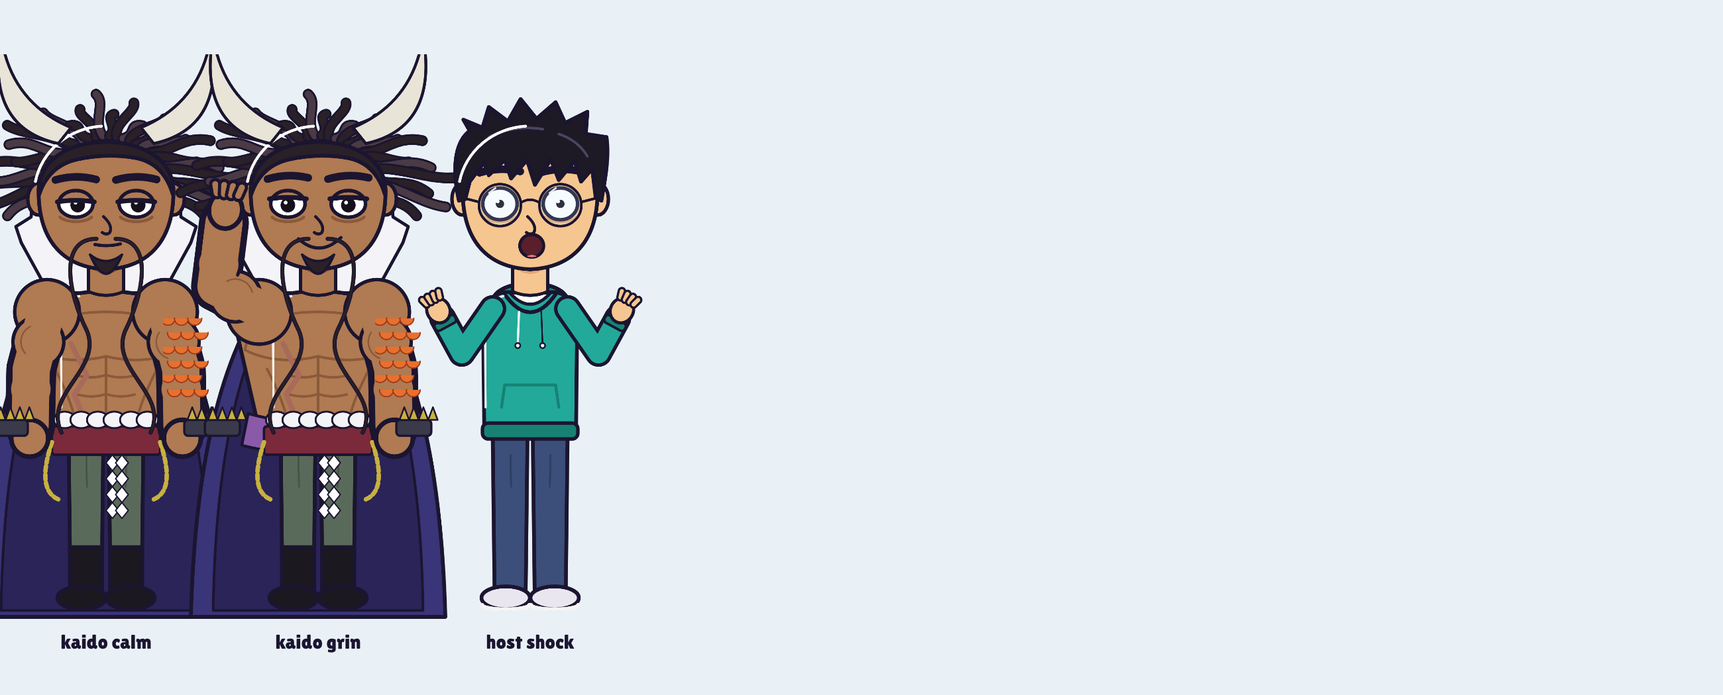
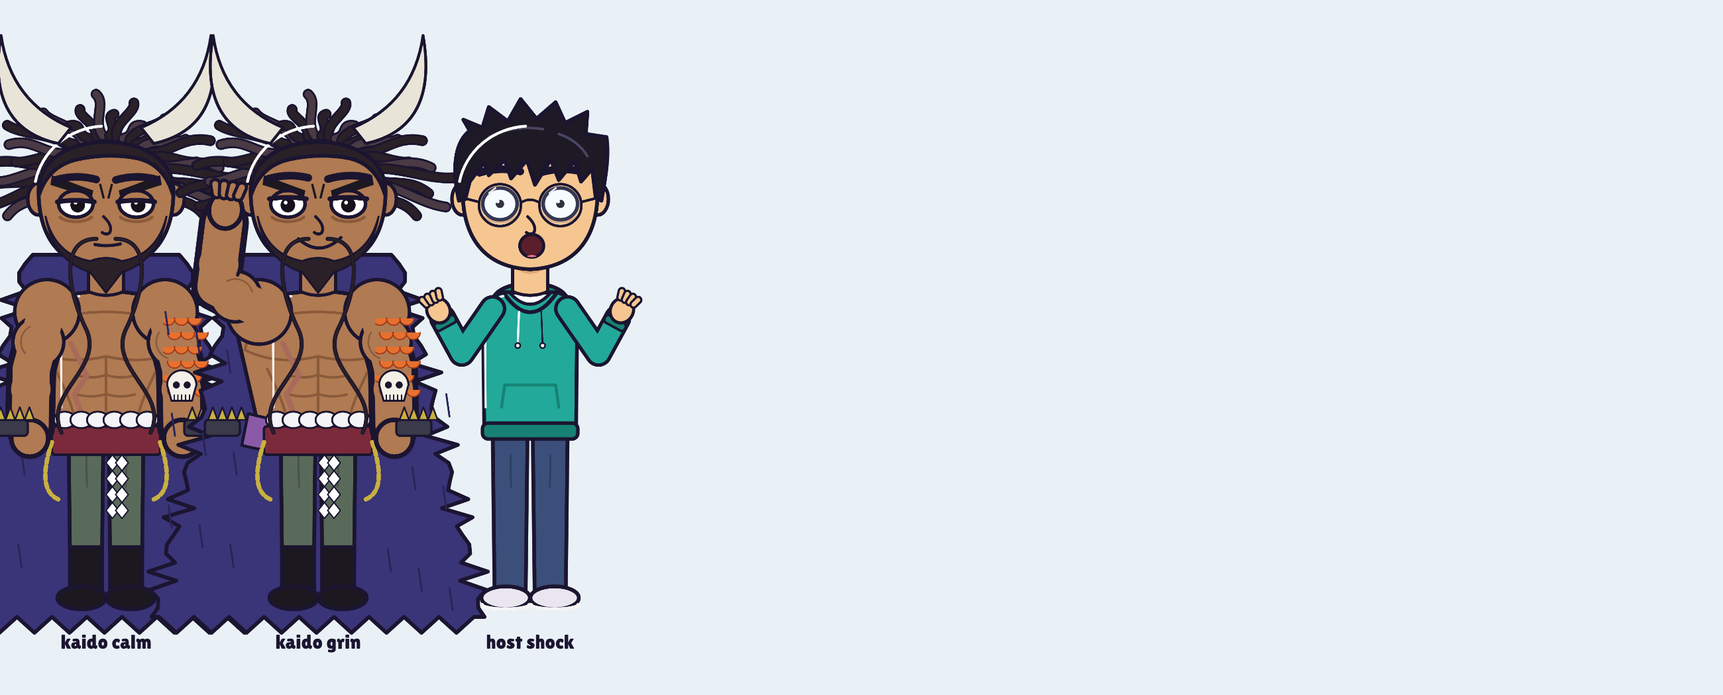
Fix clipped hair/horns/hands (roomier figure canvas), close shot gaps that flashed the desk, Gear 4 Snakeman Luffy, more accurate Kaido dragon
Claude-Session: https://claude.ai/code/session_01LedSfqc1zbW4UvWfiqXE3c

diff --git a/shorts/azure/story.js b/shorts/azure/story.js
@@ -42,23 +42,24 @@ const DB = '#3a8ac0', DBL = '#7cc4e4', DBD = '#1f5a8a', BELLY = '#c8b070', BELLY
 // one body segment run: thick tube along pts with scales on top, khaki ridged belly underneath and a black flame mane on the back
 export function scaledTube(x, pts, w, t, o = {}) {
   const n = pts.length, nrm = pts.map((p, i) => { const a = pts[Math.max(0, i - 1)], b = pts[Math.min(n - 1, i + 1)], dx = b[0] - a[0], dy = b[1] - a[1], l = Math.hypot(dx, dy) || 1; return [dy / l, -dx / l]; });
-  const up = (i, d) => [pts[i][0] + nrm[i][0] * d, pts[i][1] + nrm[i][1] * d];
-  // black flame mane along the back
-  if (o.mane !== false) for (let i = 1; i < n - 1; i += 2) { const [bx, by] = up(i, w * 0.42), [tx, ty] = up(i, w * (0.95 + 0.25 * Math.sin(i * 1.7 + t * 4))); const [ex, ey] = up(Math.min(n - 1, i + 2), w * 0.42);
-    x.beginPath(); x.moveTo(bx, by); x.quadraticCurveTo(tx - nrm[i][1] * w * 0.3, ty + nrm[i][0] * w * 0.3, tx, ty); x.quadraticCurveTo((tx + ex) / 2, (ty + ey) / 2 + 6, ex, ey); x.closePath(); x.fillStyle = '#0e0c14'; x.fill(); }
+  const up = (i, d) => [pts[i][0] + nrm[i][0] * d, pts[i][1] + nrm[i][1] * d], tang = (i) => Math.atan2(-nrm[i][0], nrm[i][1]);
+  // black flame mane along the back: several tongues per flame, curling backwards
+  if (o.mane !== false) for (let i = 1; i < n - 2; i += 2) { const [bx, by] = up(i, w * 0.4), [ex, ey] = up(i + 2, w * 0.4), h = w * (0.7 + 0.3 * Math.sin(i * 1.3 + t * 3));
+    const [t1x, t1y] = up(i, w * 0.4 + h), [t2x, t2y] = up(i + 1, w * 0.4 + h * 0.6);
+    x.beginPath(); x.moveTo(bx, by); x.quadraticCurveTo(bx + (t1x - bx) * 0.6 - nrm[i][1] * w * 0.25, by + (t1y - by) * 0.6 + nrm[i][0] * w * 0.25, t1x, t1y); x.quadraticCurveTo((t1x + t2x) / 2, (t1y + t2y) / 2 + 10, t2x, t2y); x.quadraticCurveTo((t2x + ex) / 2, (t2y + ey) / 2, ex, ey); x.closePath(); x.fillStyle = '#0c0a12'; x.fill(); }
   const path = (d = 0) => { x.beginPath(); for (let i = 0; i < n; i++) { const [px, py] = up(i, d); i ? x.lineTo(px, py) : x.moveTo(px, py); } };
   x.lineCap = 'round'; x.lineJoin = 'round';
-  path(); x.lineWidth = w + 16; x.strokeStyle = A.OL; x.stroke();
+  path(); x.lineWidth = w + 14; x.strokeStyle = A.OL; x.stroke();
   path(); x.lineWidth = w; x.strokeStyle = DB; x.stroke();
-  // khaki belly on the lower half, with curved rib lines
-  path(-w * 0.24); x.lineWidth = w * 0.52; x.strokeStyle = BELLY; x.stroke();
-  x.lineCap = 'butt'; path(-w * 0.24); x.setLineDash([4, w * 0.15]); x.lineWidth = w * 0.5; x.strokeStyle = BELLYD; x.stroke(); x.setLineDash([]); x.lineCap = 'round';
+  // khaki belly band (lower half) with rib lines across it
+  path(-w * 0.25); x.lineWidth = w * 0.5; x.strokeStyle = BELLY; x.stroke();
+  x.strokeStyle = BELLYD; x.lineWidth = 3; x.lineCap = 'butt'; for (let i = 0; i < n; i++) { const [ax, ay] = up(i, -w * 0.02), [bx2, by2] = up(i, -w * 0.48); x.beginPath(); x.moveTo(ax, ay); x.quadraticCurveTo((ax + bx2) / 2 + nrm[i][1] * w * 0.06, (ay + by2) / 2 - nrm[i][0] * w * 0.06, bx2, by2); x.stroke(); } x.lineCap = 'round';
   path(-w * 0.02); x.lineWidth = 4; x.strokeStyle = A.OL; x.stroke();
-  // scale rows on the upper half: light scales with darker centres
-  x.lineCap = 'round';
-  for (const [d, col, dash] of [[w * 0.12, DBL, w * 0.16], [w * 0.3, DBL, w * 0.13], [w * 0.12, DBD, w * 0.06], [w * 0.3, DBD, w * 0.05]]) { path(d); x.setLineDash([dash, w * 0.22 - dash * 0.3]); x.lineDashOffset = d > w * 0.2 ? w * 0.1 : 0; x.lineWidth = w * 0.15; x.strokeStyle = col; x.stroke(); }
-  x.setLineDash([]); x.lineDashOffset = 0;
-  path(w * 0.46); x.setLineDash([2, 14]); x.lineWidth = 5; x.strokeStyle = '#0e0c14'; x.stroke(); x.setLineDash([]); }
+  // scales on the upper half: rows of pointed light-blue scales with dark-blue centres, overlapping along the body
+  for (const [d, off] of [[w * 0.36, 0.5], [w * 0.2, 0], [w * 0.06, 0.5]]) for (let i = 0; i < n - 1; i++) { const f = i + off; if (f > n - 1.5) continue; const i0 = Math.floor(f), [px, py] = up(i0, d), a = tang(i0), sw = w * 0.12, sh = w * 0.1;
+    x.save(); x.translate(px, py); x.rotate(a); x.beginPath(); x.moveTo(-sw, -sh); x.quadraticCurveTo(-sw, sh, 0, sh * 1.3); x.quadraticCurveTo(sw, sh, sw, -sh); x.quadraticCurveTo(0, -sh * 0.6, -sw, -sh); x.closePath(); x.fillStyle = DBL; x.fill(); x.lineWidth = 2.5; x.strokeStyle = '#163e66'; x.stroke();
+    x.beginPath(); x.ellipse(0, sh * 0.15, sw * 0.45, sh * 0.6, 0, 0, 7); x.fillStyle = DBD; x.fill(); x.restore(); }
+  path(w * 0.47); x.setLineDash([2, 12]); x.lineWidth = 5; x.strokeStyle = '#0c0a12'; x.stroke(); x.setLineDash([]); }
 function claw(x, sd, t, o) { // light-blue scaly forearm with a gold spiked cuff, four hooked talons
   x.save(); x.scale(sd, 1);
   x.beginPath(); x.moveTo(0, -80); x.quadraticCurveTo(20, 40, 50, 140); x.lineWidth = 92; x.strokeStyle = A.OL; x.stroke(); x.lineWidth = 74; x.strokeStyle = DBL; x.stroke();
@@ -69,6 +70,13 @@ function claw(x, sd, t, o) { // light-blue scaly forearm with a gold spiked cuff
   x.beginPath(); x.ellipse(60, 150, 62, 48, 0.2, 0, 7); A.fs(x, DBL, 8);
   for (const [dx, a] of [[-40, 0.35], [-8, 0.15], [28, -0.05], [70, -0.4]]) { x.save(); x.translate(60 + dx * 0.9, 180); x.rotate(a); x.beginPath(); x.moveTo(-14, 0); x.quadraticCurveTo(-18, 60, 6, 90); x.lineTo(18, 84); x.quadraticCurveTo(10, 50, 14, 0); x.closePath(); A.fs(x, DBL, 6); x.beginPath(); x.moveTo(4, 84); x.quadraticCurveTo(-6, 120, 20, 130); x.quadraticCurveTo(10, 110, 18, 86); x.closePath(); A.fs(x, '#f4f0e4', 4); x.restore(); }
   x.restore(); }
+// flame sweeping along a line: layered tongues licking up, red-orange outside, yellow-white core
+function fireSwoosh(x, x0, y0, x1, y1, w, t, seed) { // merged anime-style flame: overlapping teardrop tongues filled per colour layer, no outlines, soft glow
+  const n = 9; A.glow(x, (x0 + x1) / 2, (y0 + y1) / 2 - w * 0.4, Math.hypot(x1 - x0, y1 - y0) * 0.6, '255,150,40', 0.55);
+  for (const [k, col] of [[1, '#e8501e'], [0.78, '#ff8c1e'], [0.55, '#ffc83a'], [0.32, '#fff2b0']]) { x.beginPath();
+    for (let i = 0; i <= n; i++) { const u = i / n, px = x0 + (x1 - x0) * u, py = y0 + (y1 - y0) * u, sz = w * k * (0.55 + 0.65 * Math.sin(u * Math.PI)), h = sz * (2.0 + 0.5 * Math.sin(t * 9 + i * 1.9 + seed)), lean = Math.sin(t * 5 + i + seed) * sz * 0.35 + sz * 0.3;
+      x.moveTo(px - sz, py); x.bezierCurveTo(px - sz, py - h * 0.5, px + lean - sz * 0.2, py - h * 0.75, px + lean, py - h); x.bezierCurveTo(px + lean + sz * 0.1, py - h * 0.6, px + sz, py - h * 0.45, px + sz, py); x.arc(px, py, sz, 0, Math.PI); }
+    x.fillStyle = col; x.fill(); } }
 function fur(x, cx, cy, r) { x.beginPath(); for (let i = 0; i <= 28; i++) { const a = i / 28 * 6.283, rr = r * (i % 2 ? 1 : 0.72); x.lineTo(cx + Math.cos(a) * rr, cy + Math.sin(a) * rr * 0.8); } x.closePath(); A.fs(x, '#4a3a7a', 6); }
 export function dragonFront(x, cx, cy, s, t, o = {}) { x.save(); x.translate(cx, cy); x.scale(s, s); const wv = Math.sin(t * 1.6) * 16;
   // coils: a big loop sweeping left and back, one rising behind the head to the upper right, the chest dropping down the middle
@@ -84,34 +92,35 @@ export function dragonFront(x, cx, cy, s, t, o = {}) { x.save(); x.translate(cx,
   // purple fur at the shoulders and the clawed arms with gold spiked cuffs
   fur(x, -230, 260, 120); fur(x, 380, 280, 130);
   x.save(); x.translate(-260, 300); claw(x, -1, t, o); x.restore(); x.save(); x.translate(360, 320); claw(x, 1, t, o); x.restore();
-  if (o.flames) { for (const [fx, fy, fw, fh, sd] of [[-300, 420, 90, 260, 1], [-220, 360, 70, 200, 4], [330, 380, 120, 380, 2], [430, 300, 110, 420, 3], [520, 220, 80, 300, 5]]) A.flame(x, fx, fy, fw, fh, t, sd, 0.92); }
+  if (o.flames) { fireSwoosh(x, -330, 420, -170, 300, 55, t, 1); fireSwoosh(x, 300, 430, 720, 160, 80, t, 2); }
   // black flame mane around and behind the head
   for (let i = 0; i < 16; i++) { const a = Math.PI * (0.75 + i / 15 * 1.5), r = 200 + (i % 3) * 60; x.beginPath(); x.moveTo(Math.cos(a - 0.2) * 110, -60 + Math.sin(a - 0.2) * 110); x.quadraticCurveTo(Math.cos(a) * r * 0.8, -60 + Math.sin(a) * r * 0.8 - 30, Math.cos(a + 0.05) * r, -60 + Math.sin(a + 0.05) * r); x.lineTo(Math.cos(a + 0.2) * 110, -60 + Math.sin(a + 0.2) * 110); x.closePath(); x.fillStyle = '#0e0c14'; x.fill(); }
-  // antlers: two tall prongs straight up from the forehead, and two long horns sweeping out sideways then curling up
-  const ant = (fn, w) => { fn(); x.lineCap = 'round'; x.lineWidth = w + 14; x.strokeStyle = A.OL; x.stroke(); fn(); x.lineWidth = w; x.strokeStyle = ANT; x.stroke(); fn(); x.lineWidth = w * 0.25; x.strokeStyle = '#8a6a3a'; x.stroke(); };
+  // antlers: two tall prongs up from the forehead (with a small branch), and two big horns that arc out from the top of the head and hook down beside the face
+  const ant = (fn, w) => { fn(); x.lineCap = 'round'; x.lineWidth = w + 14; x.strokeStyle = A.OL; x.stroke(); fn(); x.lineWidth = w; x.strokeStyle = ANT; x.stroke(); fn(); x.lineWidth = w * 0.22; x.strokeStyle = '#7a5a2a'; x.stroke(); };
   for (const sd of [-1, 1]) {
-    ant(() => { x.beginPath(); x.moveTo(sd * 40, -190); x.quadraticCurveTo(sd * 50, -400, sd * 30, -620); x.moveTo(sd * 44, -330); x.quadraticCurveTo(sd * 110, -380, sd * 120, -470); }, 30);
-    ant(() => { x.beginPath(); x.moveTo(sd * 120, -150); x.bezierCurveTo(sd * 260, -200, sd * 420, -120, sd * 470, 20); x.quadraticCurveTo(sd * 490, 90, sd * 450, 130); }, 34); }
-  // radiating pale-blue scale fringe around the face
-  for (let i = 0; i < 22; i++) { const a = Math.PI * (-0.15 + i / 21 * 1.3), r1 = 120, r2 = 200 + (i % 2) * 22; x.beginPath(); x.moveTo(Math.cos(a - 0.08) * r1, 10 + Math.sin(a - 0.08) * r1); x.lineTo(Math.cos(a) * r2, 10 + Math.sin(a) * r2 * 0.9); x.lineTo(Math.cos(a + 0.08) * r1, 10 + Math.sin(a + 0.08) * r1); x.closePath(); A.fs(x, '#a8dcf0', 5); }
-  for (const sd of [-1, 1]) for (let k = 0; k < 6; k++) { const a = -0.9 + k * 0.28; x.beginPath(); x.moveTo(sd * 130, -60 + k * 30); x.lineTo(sd * (210 + (k % 2) * 25), -80 + k * 40); x.lineTo(sd * 130, -40 + k * 30); x.closePath(); A.fs(x, '#a8dcf0', 5); }
-  // head: broad horned brow, cheeks, long snout
-  const head = () => { x.beginPath(); x.moveTo(-140, -150); x.quadraticCurveTo(0, -230, 140, -150); x.quadraticCurveTo(175, -60, 140, 0); x.quadraticCurveTo(120, 60, 80, 90); x.lineTo(70, 160); x.quadraticCurveTo(0, 190, -70, 160); x.lineTo(-80, 90); x.quadraticCurveTo(-120, 60, -140, 0); x.quadraticCurveTo(-175, -60, -140, -150); x.closePath(); };
-  head(); A.fs(x, DBL, 12); x.save(); head(); x.clip(); x.strokeStyle = DB; x.lineWidth = 5; for (let r = 0; r < 7; r++) for (let k = -4; k <= 4; k++) { x.beginPath(); x.arc(k * 34 + (r % 2) * 17, -200 + r * 30, 15, 0.2, Math.PI - 0.2); x.stroke(); }
-  x.fillStyle = DB; x.beginPath(); x.moveTo(-30, -30); x.quadraticCurveTo(0, -60, 30, -30); x.lineTo(40, 110); x.lineTo(-40, 110); x.closePath(); x.globalAlpha = 0.35; x.fill(); x.globalAlpha = 1; x.restore();
-  // heavy brow ridges + yellow eyes
-  for (const sd of [-1, 1]) { x.beginPath(); x.moveTo(sd * 20, -95); x.quadraticCurveTo(sd * 90, -140, sd * 150, -110); x.lineTo(sd * 140, -78); x.quadraticCurveTo(sd * 80, -95, sd * 25, -65); x.closePath(); A.fs(x, DB, 6);
-    x.beginPath(); x.moveTo(sd * 40, -62); x.quadraticCurveTo(sd * 90, -82, sd * 130, -70); x.quadraticCurveTo(sd * 95, -42, sd * 45, -45); x.closePath(); A.fs(x, '#f2c43a', 5); x.beginPath(); x.ellipse(sd * 88, -60, 7, 13, 0, 0, 7); x.fillStyle = '#0e0c14'; x.fill(); }
-  // white tusks at the cheeks
-  for (const sd of [-1, 1]) { x.beginPath(); x.moveTo(sd * 110, 20); x.quadraticCurveTo(sd * 150, -10, sd * 145, -50); x.quadraticCurveTo(sd * 125, -10, sd * 95, 30); x.closePath(); A.fs(x, '#f4f0e4', 5); }
-  // snout ridge and nostrils
-  x.beginPath(); x.moveTo(-55, 70); x.quadraticCurveTo(0, 40, 55, 70); x.lineTo(60, 110); x.quadraticCurveTo(0, 95, -60, 110); x.closePath(); A.fs(x, DBL, 7); for (const sd of [-1, 1]) { x.beginPath(); x.ellipse(sd * 28, 88, 14, 9, sd * 0.5, 0, 7); x.fillStyle = '#0e0c14'; x.fill(); }
-  // open jaw: pink mouth, fangs, lower jaw with the fringe below
-  const jaw = o.roar ? 1 : 0.55; x.beginPath(); x.moveTo(-70, 120); x.lineTo(70, 120); x.lineTo(62, 150 + 80 * jaw); x.quadraticCurveTo(0, 175 + 90 * jaw, -62, 150 + 80 * jaw); x.closePath(); A.fs(x, '#a8405a', 9);
-  x.beginPath(); x.ellipse(0, 150 + 60 * jaw, 34, 18, 0, 0, 7); x.fillStyle = '#e07890'; x.fill();
-  x.fillStyle = '#ffffff'; for (const dx of [-54, -32, -12, 12, 32, 54]) { x.beginPath(); x.moveTo(dx - 9, 120); x.lineTo(dx, Math.abs(dx) > 40 ? 168 : 146); x.lineTo(dx + 9, 120); x.fill(); } for (const dx of [-44, -18, 18, 44]) { x.beginPath(); x.moveTo(dx - 9, 148 + 82 * jaw); x.lineTo(dx, 112 + 80 * jaw); x.lineTo(dx + 9, 148 + 82 * jaw); x.fill(); }
-  x.beginPath(); x.moveTo(-72, 148 + 80 * jaw); x.quadraticCurveTo(0, 190 + 92 * jaw, 72, 148 + 80 * jaw); x.lineTo(60, 178 + 82 * jaw); x.quadraticCurveTo(0, 210 + 92 * jaw, -60, 178 + 82 * jaw); x.closePath(); A.fs(x, DBL, 7);
-  for (let k = 0; k < 9; k++) { const dx = -64 + k * 16; x.beginPath(); x.moveTo(dx - 8, 190 + 86 * jaw); x.lineTo(dx, 225 + 86 * jaw); x.lineTo(dx + 8, 190 + 86 * jaw); x.closePath(); A.fs(x, '#a8dcf0', 3); }
+    ant(() => { x.beginPath(); x.moveTo(sd * 30, -200); x.quadraticCurveTo(sd * 45, -420, sd * 20, -640); x.moveTo(sd * 38, -380); x.quadraticCurveTo(sd * 95, -420, sd * 105, -500); }, 30);
+    ant(() => { x.beginPath(); x.moveTo(sd * 90, -190); x.bezierCurveTo(sd * 170, -330, sd * 330, -330, sd * 360, -170); x.quadraticCurveTo(sd * 375, -80, sd * 330, -10); }, 36); }
+  // pale scale fringe all around the face (sides and under the jaw), like a ruff
+  for (let i = 0; i < 30; i++) { const a = Math.PI * (-0.12 + i / 29 * 1.24), r1 = 112, r2 = 165 + (i % 2) * 18; const ox = Math.cos(a), oy = Math.sin(a); x.beginPath(); x.moveTo(Math.cos(a - 0.06) * r1, 20 + Math.sin(a - 0.06) * r1 * 1.25); x.lineTo(ox * r2, 20 + oy * r2 * 1.25); x.lineTo(Math.cos(a + 0.06) * r1, 20 + Math.sin(a + 0.06) * r1 * 1.25); x.closePath(); A.fs(x, '#9ad4ec', 4); }
+  // head: narrow, long, scaly
+  const head = () => { x.beginPath(); x.moveTo(-115, -170); x.quadraticCurveTo(0, -235, 115, -170); x.quadraticCurveTo(140, -80, 118, -10); x.quadraticCurveTo(100, 50, 70, 80); x.lineTo(62, 150); x.quadraticCurveTo(0, 172, -62, 150); x.lineTo(-70, 80); x.quadraticCurveTo(-100, 50, -118, -10); x.quadraticCurveTo(-140, -80, -115, -170); x.closePath(); };
+  head(); A.fs(x, DB, 12); x.save(); head(); x.clip();
+  for (let r = 0; r < 8; r++) for (let k = -4; k <= 4; k++) { const px = k * 30 + (r % 2) * 15, py = -205 + r * 26; x.beginPath(); x.moveTo(px - 13, py); x.quadraticCurveTo(px - 13, py + 14, px, py + 18); x.quadraticCurveTo(px + 13, py + 14, px + 13, py); x.fillStyle = DBL; x.fill(); x.lineWidth = 2.5; x.strokeStyle = '#163e66'; x.stroke(); }
+  x.restore(); head(); x.lineWidth = 12; x.strokeStyle = A.OL; x.stroke();
+  // forehead ridge crest and heavy angry brows over small yellow eyes
+  x.beginPath(); x.moveTo(-30, -190); x.quadraticCurveTo(0, -150, 30, -190); x.lineTo(14, -110); x.lineTo(-14, -110); x.closePath(); A.fs(x, DBL, 5);
+  for (const sd of [-1, 1]) { x.beginPath(); x.moveTo(sd * 18, -80); x.quadraticCurveTo(sd * 80, -125, sd * 135, -100); x.lineTo(sd * 128, -72); x.quadraticCurveTo(sd * 75, -88, sd * 22, -55); x.closePath(); A.fs(x, '#1f4e78', 6);
+    x.beginPath(); x.moveTo(sd * 40, -55); x.quadraticCurveTo(sd * 82, -74, sd * 118, -64); x.quadraticCurveTo(sd * 88, -38, sd * 44, -40); x.closePath(); A.fs(x, '#f2c43a', 5); x.beginPath(); x.ellipse(sd * 82, -54, 6, 11, 0, 0, 7); x.fillStyle = '#0c0a12'; x.fill(); }
+  // white tusks curving up beside the snout
+  for (const sd of [-1, 1]) { x.beginPath(); x.moveTo(sd * 92, 40); x.quadraticCurveTo(sd * 130, 10, sd * 128, -35); x.quadraticCurveTo(sd * 108, 5, sd * 78, 48); x.closePath(); A.fs(x, '#f4f0e4', 5); }
+  // snout with flared nostrils
+  x.beginPath(); x.moveTo(-60, 60); x.quadraticCurveTo(0, 20, 60, 60); x.quadraticCurveTo(72, 95, 56, 118); x.lineTo(-56, 118); x.quadraticCurveTo(-72, 95, -60, 60); x.closePath(); A.fs(x, DB, 7);
+  for (const sd of [-1, 1]) { x.beginPath(); x.moveTo(sd * 12, 92); x.quadraticCurveTo(sd * 40, 70, sd * 54, 96); x.quadraticCurveTo(sd * 36, 88, sd * 16, 102); x.closePath(); x.fillStyle = '#0c0a12'; x.fill(); }
+  // open jaw: dark pink mouth, rows of fangs, lower jaw with fringe
+  const jaw = o.roar ? 1 : 0.55; x.beginPath(); x.moveTo(-58, 122); x.lineTo(58, 122); x.lineTo(52, 150 + 70 * jaw); x.quadraticCurveTo(0, 170 + 80 * jaw, -52, 150 + 70 * jaw); x.closePath(); A.fs(x, '#8a2a44', 9);
+  x.beginPath(); x.ellipse(0, 150 + 55 * jaw, 28, 15, 0, 0, 7); x.fillStyle = '#d86a88'; x.fill();
+  x.fillStyle = '#ffffff'; for (const dx of [-46, -28, -10, 10, 28, 46]) { x.beginPath(); x.moveTo(dx - 8, 122); x.lineTo(dx, Math.abs(dx) > 40 ? 162 : 142); x.lineTo(dx + 8, 122); x.fill(); } for (const dx of [-38, -14, 14, 38]) { x.beginPath(); x.moveTo(dx - 8, 148 + 72 * jaw); x.lineTo(dx, 115 + 70 * jaw); x.lineTo(dx + 8, 148 + 72 * jaw); x.fill(); }
+  x.beginPath(); x.moveTo(-62, 146 + 70 * jaw); x.quadraticCurveTo(0, 182 + 82 * jaw, 62, 146 + 70 * jaw); x.lineTo(52, 172 + 72 * jaw); x.quadraticCurveTo(0, 200 + 82 * jaw, -52, 172 + 72 * jaw); x.closePath(); A.fs(x, DB, 7);
   // long black whiskers trailing out to both sides
   for (const sd of [-1, 1]) { x.beginPath(); x.moveTo(sd * 60, 100); x.bezierCurveTo(sd * 300, 60 + wv, sd * 500, 220, sd * 780, 140 + wv * 2); x.lineCap = 'round'; x.lineWidth = 9; x.strokeStyle = '#0e0c14'; x.stroke(); }
   x.restore(); return [cx, cy + (150 + 80 * (o.roar ? 1 : 0.55)) * s]; }

diff --git a/engine/art.js b/engine/art.js
@@ -161,6 +161,8 @@ export const LOOKS = {
           top: 'katakuri', pants: '#1b1820', pantsStripes: '#4a4a5a', shoe: '#2a2a36', boots: true, arm: '#e0a878', glove: '#3a2a20', spikeCuffs: true },
   kaido: { skin: '#b07a52', skinD: '#8a5a3a', hair: '#2a2028', hairL: '#4a3a44', hairStyle: 'short', dreadMane: true, bullHorns: true, jawBeard: true, angryBrows: true, whiskers: true, skullTat: true, buff: 1.5, fit: 1.0,
           top: 'kaido', cloakCol: '#3a3478', cloakLining: '#2a2458', shaggyCloak: true, pants: '#5a6a5a', shoe: '#1b1820', boots: true, arm: '#b07a52', spikeCuffs: true, dragonSleeve: true },
+  luffySnake: { skin: '#f3c08a', skinD: '#dca06a', hair: '#1d1a22', hairL: '#3d3443', hairStyle: 'messy', eyeScar: true, buff: 0.9, steam: true, hakiArms: true, fluffShorts: true, glove: '#1b1820',
+          top: 'bare', pants: '#d8342c', shorts: true, shoe: '#1b1820', boots: true, arm: '#1b1820' },
   sabo: { skin: '#f7cc9c', skinD: '#e2ab78', hair: '#f2cf55', hairL: '#ffe58a', hairStyle: 'curly', hat: 'top', scar: true,
           top: 'coat', cloth: '#2f4f8f', clothD: '#223a6c', inner: '#f4f1ea', innerD: '#cfc8b8', cravat: true, pants: '#3a3340', shoe: '#6b4630', boots: true, cuff: '#f4f1ea' },
 };
@@ -199,7 +201,7 @@ function crackerHair(x, L) { // two long coiled purple tails flaring out to the 
 
 // Full-body figure. Canvas 1000x1900; local coords are offset by (120,110); the head is centred at local (380,330).
 // Feet rest on canvas y = FEET. pose: idle | hold | sip | raise | punch | cheer | shrug | holdUp
-export const FIG = { W: 1000, H: 1900, OX: 120, OY: 110, FEET: 1745, HEAD: [380, 330] };
+export const FIG = { W: 1200, H: 2150, OX: 220, OY: 360, FEET: 1995, HEAD: [380, 330] };   // roomy canvas so horns, spiky hair and punches are never clipped
 const SH = { L: [262, 690], R: [498, 690] };
 export const POSES = {
   idle:   { L: [[226, 880], [222, 1060], 'round'], R: [[534, 880], [538, 1060], 'round'] },
@@ -220,6 +222,7 @@ function drawLegs(x, L) {
     x.beginPath(); x.moveTo(x0, 1060); x.lineTo(x1, 1060); x.lineTo(x1 - 6, 1580); x.lineTo(x0 + 6, 1580); x.closePath(); fs(x, pants, 12);
     if (L.shorts) { x.beginPath(); x.rect(x0 + 10, 1330, x1 - x0 - 20, 250); fs(x, L.skin, 10); x.beginPath(); x.moveTo(x0, 1330); x.lineTo(x1, 1330); x.lineWidth = 12; x.strokeStyle = OL; x.stroke(); }
     if (L.fishnet) { x.save(); x.beginPath(); x.rect(x0 + 6, 1180, x1 - x0 - 12, 400); x.clip(); x.strokeStyle = '#1b1820'; x.lineWidth = 3; for (let k = -12; k < 12; k++) { x.beginPath(); x.moveTo(x0 + k * 18, 1180); x.lineTo(x0 + k * 18 + 200, 1580); x.moveTo(x1 - k * 18, 1180); x.lineTo(x1 - k * 18 - 200, 1580); x.stroke(); } x.restore(); x.fillStyle = '#1b1820'; x.fillRect(x0 + 4, 1180, x1 - x0 - 8, 22); }
+  if (L.fluffShorts) for (let k = 0; k < 4; k++) { x.beginPath(); x.arc(x0 + 12 + k * (x1 - x0 - 24) / 3, 1330, 26, 0, 7); fs(x, '#f4f2fa', 5); }
   if (L.stripedLegs) { x.save(); x.beginPath(); x.rect(x0 + 6, 1060, x1 - x0 - 12, 520); x.clip(); x.fillStyle = OL; for (let k = 1080; k < 1580; k += 50) x.fillRect(x0, k, x1 - x0, 25); x.restore(); }
   if (L.bandages) { x.strokeStyle = '#f4f4f8'; x.lineWidth = 14; for (let k = 0; k < 4; k++) { x.beginPath(); x.moveTo(x0 + 6, 1230 + k * 22); x.lineTo(x1 - 6, 1238 + k * 22); x.stroke(); } }
     if (L.boots) { const by = L.tallBoots ? 1320 : 1440; x.beginPath(); x.rect(x0 + 4, by, x1 - x0 - 8, 1585 - by); fs(x, shoe, 11); if (L.tallBoots) { rrect(x, x0 - 10, 1500, x1 - x0 + 20, 40, 10); fs(x, '#6a5a8a', 8); } }
@@ -476,11 +479,12 @@ function drawArms(x, L, pose) {
       bulge(sx, sy + 10, 62 * bw * 0.85); bulge(sx + (ex - sx) * 0.55, sy + (ey - sy) * 0.55, 48 * bw * 0.85); bulge(ex + (hx - ex) * 0.35, ey + (hy - ey) * 0.35, 40 * bw * 0.85);
       x.beginPath(); x.moveTo(sx, sy); x.lineTo(ex, ey); x.lineTo(hx, hy); x.lineWidth = 64 * bw; x.strokeStyle = armCol; x.stroke();
       x.strokeStyle = L.skinD || OL; x.lineWidth = 5; x.beginPath(); x.arc(sx + (ex - sx) * 0.55, sy + (ey - sy) * 0.55, 30 * bw, Math.atan2(ey - sy, ex - sx) + 0.6, Math.atan2(ey - sy, ex - sx) + 2.4); x.stroke(); }
+    if (L.hakiArms) { x.beginPath(); x.moveTo(sx, sy); x.lineTo(ex, ey); x.lineTo(hx, hy); x.lineWidth = 64 * bw; x.strokeStyle = '#1b1820'; x.stroke(); x.strokeStyle = '#d8304a'; x.lineWidth = 5; for (const f of [0.25, 0.5, 0.75]) { const mx = sx + (hx - sx) * f, my = sy + (hy - sy) * f; x.beginPath(); x.moveTo(mx - 20, my - 10); x.quadraticCurveTo(mx, my + 20, mx + 22, my - 6); x.stroke(); } }
     if (L.sleeveSkin) { x.beginPath(); x.moveTo(ex, ey); x.lineTo(hx, hy); x.lineWidth = 64; x.strokeStyle = L.skin; x.stroke(); x.beginPath(); x.moveTo(sx, sy); x.lineTo(ex, ey); x.lineWidth = 64; x.strokeStyle = armCol; x.stroke(); }
     if (L.heartCol) { for (const [ax, ay] of [[sx + (ex - sx) * 0.35, sy + (ey - sy) * 0.35], [sx + (ex - sx) * 0.78, sy + (ey - sy) * 0.78], [ex + (hx - ex) * 0.5, ey + (hy - ey) * 0.5]]) { x.save(); x.translate(ax, ay); x.beginPath(); x.moveTo(0, 12); x.bezierCurveTo(-22, -2, -10, -18, 0, -6); x.bezierCurveTo(10, -18, 22, -2, 0, 12); x.fillStyle = L.heartCol; x.fill(); x.restore(); } }
     // cuff + hand
     const ang = Math.atan2(hy - ey, hx - ex);
-    x.save(); x.translate(hx, hy); x.rotate(ang); if (L.buff) x.scale(1 + L.buff * 0.3, 1 + L.buff * 0.3);
+    x.save(); x.translate(hx, hy); x.rotate(ang); if (L.buff) x.scale(1 + L.buff * (L.hakiArms ? 0.8 : 0.3), 1 + L.buff * (L.hakiArms ? 0.8 : 0.3));
     if (L.cuff) { rrect(x, -30, -36, L.furCuff ? 40 : 26, 72, 10); fs(x, L.cuff, 8); }
     x.beginPath();
     if (hand === 'open') { x.ellipse(28, 0, 40, 36, 0, 0, 7); fs(x, L.glove || L.skin, 10); for (const k of [-24, -8, 8, 24]) { x.save(); x.translate(64, k); x.rotate(k * 0.012); rrect(x, -12, -10, 40, 20, 10); fs(x, L.glove || L.skin, 7); x.restore(); } }
@@ -504,6 +508,7 @@ export function drawPerson({ who = 'host', expr = 'calm', mouth = 0, blink = fal
   if (L.drumRing) { x.beginPath(); x.arc(380, 260, 420, Math.PI * 0.95, Math.PI * 2.05); x.lineWidth = 16; x.strokeStyle = '#8aa8c8'; x.stroke(); for (const a of [1.05, 1.35, 1.65, 1.95]) { const dx = 380 + Math.cos(a * Math.PI) * 420, dy = 260 + Math.sin(a * Math.PI) * 420; x.beginPath(); x.arc(dx, dy, 80, 0, 7); fs(x, '#f4ead2', 10); x.fillStyle = OL; for (let k = 0; k < 3; k++) { const b = k / 3 * 6.283; x.beginPath(); x.arc(dx + Math.cos(b) * 28, dy + Math.sin(b) * 28, 26, b, b + 2.4); x.lineTo(dx, dy); x.fill(); } } }
   if (L.swans) for (const sd of [-1, 1]) { x.beginPath(); x.moveTo(380 + sd * 120, 700); x.quadraticCurveTo(380 + sd * 320, 500, 380 + sd * 260, 160); x.lineWidth = 44; x.strokeStyle = OL; x.stroke(); x.lineWidth = 32; x.strokeStyle = '#ffffff'; x.stroke(); x.beginPath(); x.ellipse(380 + sd * 280, 150, 46, 34, 0, 0, 7); fs(x, '#ffffff', 8); x.beginPath(); x.moveTo(380 + sd * 310, 140); x.lineTo(380 + sd * 420, 120); x.lineTo(380 + sd * 310, 165); x.closePath(); fs(x, '#e8c84a', 6); }
   if (L.longWild) { x.beginPath(); x.moveTo(380, 120); const pts = [[150, 160], [60, 330], [120, 380], [20, 560], [110, 560], [60, 760], [200, 640], [230, 800], [300, 620], [460, 620], [530, 800], [560, 640], [700, 760], [650, 560], [740, 560], [640, 380], [700, 330], [610, 160]]; for (const [px, py] of pts) x.lineTo(px, py); x.closePath(); fs(x, L.hair, 10); }
+  if (L.steam) for (const [px, py, r] of [[60, 900, 160], [700, 860, 170], [-20, 1250, 140], [780, 1250, 150], [120, 500, 130], [640, 480, 140], [380, 1500, 120]]) { x.beginPath(); for (let i = 0; i < 6; i++) x.arc(px + Math.cos(i) * r * 0.5, py + Math.sin(i) * r * 0.4, r * 0.55, 0, 7); x.fillStyle = 'rgba(248,244,255,0.95)'; x.fill(); }
   if (L.dreadMane) { x.lineCap = 'round'; for (let i = 0; i < 26; i++) { const ang = Math.PI * (0.92 + i / 25 * 1.16), len = 170 + ((i * 37) % 5) * 28, r0 = 150;
       const bx = 380 + Math.cos(ang) * r0, by = 280 + Math.sin(ang) * r0 * 0.9, ex = 380 + Math.cos(ang) * (r0 + len), ey = 280 + Math.sin(ang) * (r0 + len) * 0.75 + 40;
       const nx = -Math.sin(ang), ny = Math.cos(ang), w = 26 * ((i % 2) ? 1 : -1);
@@ -792,7 +797,7 @@ export function drawPerson({ who = 'host', expr = 'calm', mouth = 0, blink = fal
   }
   drawArms(x, L, pose);
   if (L.shoulderPad) shoulderPad(x);
-  if (L.spikeCuffs) for (const hx of (L.buff ? [[160 - L.buff * 54, 1070], [600 + L.buff * 54, 1070]] : [[160, 1070], [600, 1070]])) { rrect(x, hx[0] - 55, hx[1] - 30, 110, 50, 12); fs(x, '#3a3a4a', 7); for (let k = 0; k < 4; k++) { x.beginPath(); x.moveTo(hx[0] - 45 + k * 30, hx[1] - 30); x.lineTo(hx[0] - 30 + k * 30, hx[1] - 70); x.lineTo(hx[0] - 15 + k * 30, hx[1] - 30); x.closePath(); fs(x, '#c8b040', 5); } }
+  if (L.spikeCuffs && (POSES[pose] || POSES.idle).R[1][1] > 1000) for (const hx of (L.buff ? [[160 - L.buff * 54, 1070], [600 + L.buff * 54, 1070]] : [[160, 1070], [600, 1070]])) { rrect(x, hx[0] - 55, hx[1] - 30, 110, 50, 12); fs(x, '#3a3a4a', 7); for (let k = 0; k < 4; k++) { x.beginPath(); x.moveTo(hx[0] - 45 + k * 30, hx[1] - 30); x.lineTo(hx[0] - 30 + k * 30, hx[1] - 70); x.lineTo(hx[0] - 15 + k * 30, hx[1] - 30); x.closePath(); fs(x, '#c8b040', 5); } }
   if (L.dragonSleeve && (POSES[pose] || POSES.idle).R[1][1] > 1000) { x.save(); x.beginPath(); x.rect(560, 640, 150, 330); x.clip(); for (let r = 0; r < 7; r++) for (let k = 0; k < 3; k++) { x.beginPath(); x.arc(575 + k * 42 + (r % 2) * 20, 720 + r * 45, 22, 0, Math.PI); x.fillStyle = '#e8702e'; x.fill(); x.lineWidth = 4; x.strokeStyle = '#a03a1a'; x.stroke(); } x.restore(); }
   if (L.skullTat && (POSES[pose] || POSES.idle).R[1][1] > 1000) { const sx = 618, sy = 930; x.beginPath(); x.arc(sx, sy, 46, Math.PI, 0); x.lineTo(sx + 32, sy + 50); x.lineTo(sx - 32, sy + 50); x.closePath(); fs(x, '#f4f0e8', 6); x.fillStyle = OL; for (const d of [-17, 17]) { x.beginPath(); x.arc(sx + d, sy, 11, 0, 7); x.fill(); } for (let k = -2; k <= 2; k++) x.fillRect(sx + k * 12 - 2, sy + 30, 4, 18); }
   if (L.whiskers) for (const sd of [-1, 1]) { x.beginPath(); x.moveTo(380 + sd * 30, 470); x.bezierCurveTo(380 + sd * 150, 470, 380 + sd * 120, 640, 380 + sd * 60, 760); x.bezierCurveTo(380 + sd * 10, 880, 380 + sd * 200, 960, 380 + sd * 140, 1080); x.lineCap = 'round'; x.lineWidth = 13; x.strokeStyle = OL; x.stroke(); x.lineWidth = 7; x.strokeStyle = '#2a2028'; x.stroke(); }

diff --git a/shorts/mochi/story.js b/shorts/mochi/story.js
@@ -91,9 +91,9 @@ export function buildShots(TL) {
   add({ name: 'Katakuri (cake castle): Charlotte Katakuri, maroon hair, fur scarf, pink-striped chest, trident; purple CHARLOTTE KATAKURI banner', t0: st('users'), t1: tLuffy, bg: 's3:mo_castle',
     cam: [[1.05, 540, 1000, 0.02], [1.12, 540, 980, 0]], banners: [['CHARLOTTE KATAKURI', 'pink', st('users') + 0.2, W('users', /^strongest/)], ['BIG MOM\'S STRONGEST SON', 'red', W('users', /^strongest/), tLuffy + 0.1]], sfx: [[0, 'whoosh'], [W('users', /^strongest/) - st('users'), 'drums']],
     draw(x, S) { const kt = person(x, S, 'katakuri', 'calm', 520, 1820, 0.82, { pop: S.t0 + 0.05, seed: 8, pose: 'raise' }); spear(x, kt.hand.L[0], kt.hand.L[1] + 280, 0.1, 0.75); } });
-  add({ name: 'Vs Luffy (cake castle, mirror world tint): Luffy and Katakuri clash fist to mochi fist, impact star; red VS LUFFY banner', t0: tLuffy, t1: end('users'), bg: 's3:mo_mirror',
-    cam: [[1.0, 540, 1000, -0.02], [1.08, 540, 990, 0.03]], banners: [['VS LUFFY', 'red', tLuffy + 0.1, end('users')]], sfx: [[0.2, 'impact'], [0.6, 'impact']],
-    draw(x, S) { person(x, S, 'luffy', 'grin', 260, 1800, 0.62, { seed: 4, pose: 'punch' }); const kt = person(x, S, 'katakuri', 'smug', 820, 1800, 0.64, { seed: 8, pose: 'punch', flip: true }); mochiFist(x, kt.hand.R[0] - 60, kt.hand.R[1], 0.8, S.T); A.impactStar(x, 540, kt.hand.R[1], 140 * (0.8 + 0.2 * Math.sin(S.T * 12)), S.T); } });
+  add({ name: 'Vs Luffy (mirror world): Gear 4 Snakeman Luffy, black haki arms and steam, clashes fist to mochi fist, impact star; red VS LUFFY banner', t0: tLuffy, t1: end('users'), bg: 's3:mo_mirror',
+    cam: [[1.0, 540, 1000, -0.02], [1.08, 540, 990, 0.03]], banners: [['VS GEAR 4 SNAKEMAN', 'red', tLuffy + 0.1, end('users')]], sfx: [[0.2, 'impact'], [0.6, 'impact']],
+    draw(x, S) { person(x, S, 'luffySnake', 'grin', 260, 1800, 0.62, { seed: 4, pose: 'punch' }); const kt = person(x, S, 'katakuri', 'smug', 820, 1800, 0.64, { seed: 8, pose: 'punch', flip: true }); mochiFist(x, kt.hand.R[0] - 60, kt.hand.R[1], 0.8, S.T); A.impactStar(x, 540, kt.hand.R[1], 140 * (0.8 + 0.2 * Math.sin(S.T * 12)), S.T); } });
 
   add({ name: 'Joke (snack bar): the host pinches a chunk of mochi off his own arm and eats it happily; gold ENDLESS SNACKS banner', t0: st('joke'), t1: end('joke'), bg: 's3:mo_snackbar',
     cam: [[1.05, 540, 1000, -0.03], [1.12, 540, 980, 0]], banners: [['ENDLESS SNACKS', 'gold', W('joke', /^snacks/) - 0.1, end('joke')]], sfx: [[0.3, 'stretch'], [W('joke', /^snacks/) - st('joke'), 'crunch'], [W('joke', /^snacks/) - st('joke') + 0.3, 'jokesting']],

diff --git a/engine/review.js b/engine/review.js
@@ -1,5 +1,5 @@
 // Generic review sheets: fruit design sheet and cast sheet.
-import { drawPerson, OL } from './art.js';
+import { FIG, drawPerson, OL } from './art.js';
 export function fruitSheet(c, title, draw, swatches, note, rots = [0, 0.6, 1.2, 1.8], labels = ['front', 'turn', 'turn', 'turn']) {
   const x = c.getContext('2d'); c.width = 1600; c.height = 900; x.fillStyle = '#f4efe6'; x.fillRect(0, 0, 1600, 900);
   x.font = '64px "Lilita One"'; x.fillStyle = OL; x.fillText(`${title}  -  design sheet`, 50, 85);
@@ -11,7 +11,7 @@ export function fruitSheet(c, title, draw, swatches, note, rots = [0, 0.6, 1.2, 
 }
 export function castSheet(c, list) { // list of [who, expr, pose, scale?]
   const x = c.getContext('2d'); c.width = 2600; c.height = 1050; x.fillStyle = '#e9f1f6'; x.fillRect(0, 0, c.width, c.height);
-  list.forEach(([w, e, p, sc], k) => { const s = sc || 0.48, cx = 160 + k * 320, fy = 920; x.drawImage(drawPerson({ who: w, expr: e, pose: p }), cx - 500 * s, fy - 1745 * s, 1000 * s, 1900 * s);
+  list.forEach(([w, e, p, sc], k) => { const s = sc || 0.48, cx = 160 + k * 320, fy = 920; x.drawImage(drawPerson({ who: w, expr: e, pose: p }), cx - FIG.W / 2 * s, fy - FIG.FEET * s, FIG.W * s, FIG.H * s);
     x.font = '30px "Lilita One"'; x.fillStyle = OL; x.textAlign = 'center'; x.fillText(`${w} ${e}`, cx, fy + 60); });
 }
 export function bgSheet(c, BG, names) {

diff --git a/engine/template.js b/engine/template.js
@@ -15,7 +15,8 @@ export function timing(TL) {
     add({ ...o, t1: tSplit });
     add({ ...o, name: name2, t0: tSplit, cam: cam2, banners: [], sfx: [], draw: wrap(o.draw), hud: wrap(o.hud) });
   };
-  const finish = () => { shots.forEach((s, i) => { s.i = i; s.sfx = (s.sfx || []).map(([t, n]) => [s.t0 + t, n]); }); return shots; };
+  const finish = () => { shots.sort((a, b) => a.t0 - b.t0); for (let i = 0; i < shots.length - 1; i++) if (shots[i + 1].t0 > shots[i].t1) shots[i].t1 = shots[i + 1].t0;   // no gaps between shots
+    shots.forEach((s, i) => { s.i = i; s.sfx = (s.sfx || []).map(([t, n]) => [s.t0 + t, n]); }); return shots; };
   return { L, W, end, st, shots, add, addSplit, finish };
 }
 

diff --git a/shorts/mochi/PLAN.md b/shorts/mochi/PLAN.md
@@ -49,7 +49,7 @@ Sheet: `review/bg_sheet.png`. Contact sheet: `review/contact_sheet.jpg`.
 | 2 | 49–106 | take a bite of a weird white fruit. | desk | close-up, push-in 1.40→1.50 | The bite (desk close-up): dip, bite, disgusted face; the bite stretches like chewy mochi; pink YOUR FRUIT banner | YOUR FRUIT (pink) | crunch, stretch, yuck |
 | 3 | 107–177 | Don't panic, that's just a Devil Fruit. | s3:mo_teashop | wide, push-in 1.06→1.12 | Don't panic (mochi tea shop): the host calms down and holds up the bitten fruit |  | shimmer, whoosh |
 | 4 | 178–237 | Out of every fruit in the sea, you got the | rays:peach | wide, push-in 1.00→1.10, roll 2° | Out of every fruit: peach rays, pink ゴ marks, spinning globe, dark unnamed fruit silhouettes |  | rumble, whoosh |
-| 5 | 238–324 | Mochi-Mochi Fruit, a special Paramecia | s3:mo_cake | medium, push-in 1.05→1.16 | Fruit reveal (giant layered cake): the fruit spins in a halo; pink MOCHI-MOCHI FRUIT banner | MOCHI-MOCHI FRUIT (pink) | ding, shimmer, whoosh |
+| 5 | 238–331 | Mochi-Mochi Fruit, a special Paramecia that | s3:mo_cake | medium, push-in 1.05→1.16 | Fruit reveal (giant layered cake): the fruit spins in a halo; pink MOCHI-MOCHI FRUIT banner | MOCHI-MOCHI FRUIT (pink) | ding, shimmer, whoosh |
 | 6 | 332–398 | turns your body into sticky mochi, and it can even | s3:mo_kitchen | wide, push-in 1.00→1.08 | Sticky body (kitchen): the host's arm squishes and stretches like white mochi |  | boing, stretch |
 | 7 | 399–443 | awaken. | s3:mo_mirror | wide, push-in 1.00→1.08 | Techniques stage (mirror hall): POWER 1, POWER 2, POWER 3, AWAKENED pop onto pedestals, the bar fills, LEVEL UP |  | levelup, pop, whoosh |
 | 8 | 444–499 | First, attacks go right through your | s3:mo_chessboard | wide, push-in 1.05→1.10 | Power 1 (chessboard hall): a brute punches Katakuri; his torso opens into a mochi ring and the fist goes straight through; pink DODGE banner | ATTACKS GO THROUGH (pink) | boing, whoosh |
@@ -62,7 +62,7 @@ Sheet: `review/bg_sheet.png`. Contact sheet: `review/contact_sheet.jpg`.
 | 15 | 874–930 | But there's a sticky secret. | s3:mo_lagoon | medium, push-in 1.00→1.28, roll 4° **twist** | Twist (pink lagoon at sunset): push-in with roll, low sting; red STICKY SECRET banner | STICKY SECRET (red) | sting |
 | 16 | 931–1033 | Its user hid his mouth his whole life because people laughed at it. | s3:mo_tearoom | medium, push-in 1.10→1.20, roll -2° | Hidden mouth (dark private tea room): Katakuri sits alone with a giant donut, his big fur scarf pulled up over his mouth; red HIDDEN MOUTH banner | HID HIS MOUTH (red) | sting, whoosh, yuck |
 | 17 | 1034–1105 | Charlotte Katakuri, Big Mom's strongest son, | s3:mo_castle | wide, push-in 1.05→1.12 | Katakuri (cake castle): Charlotte Katakuri, maroon hair, fur scarf, pink-striped chest, trident; purple CHARLOTTE KATAKURI banner | CHARLOTTE KATAKURI (pink), BIG MOM'S STRONGEST SON (red) | drums, whoosh |
-| 18 | 1106–1173 | fought Luffy on Whole Cake Island. | s3:mo_mirror | wide, push-in 1.00→1.08 | Vs Luffy (cake castle, mirror world tint): Luffy and Katakuri clash fist to mochi fist, impact star; red VS LUFFY banner | VS LUFFY (red) | impact |
+| 18 | 1106–1173 | fought Luffy on Whole Cake Island. | s3:mo_mirror | wide, push-in 1.00→1.08 | Vs Luffy (mirror world): Gear 4 Snakeman Luffy, black haki arms and steam, clashes fist to mochi fist, impact star; red VS LUFFY banner | VS GEAR 4 SNAKEMAN (red) | impact |
 | 19 | 1174–1266 | Users of this fruit never run out of snacks. | s3:mo_snackbar | wide, push-in 1.05→1.12 | Joke (snack bar): the host pinches a chunk of mochi off his own arm and eats it happily; gold ENDLESS SNACKS banner | ENDLESS SNACKS (gold) | crunch, jokesting, stretch |
 | 20 | 1267–1350 | Which fruit do you want next? Follow for more. | rays:purple | wide, push-in 1.00→1.10 | Outro (purple rays): host with big ? marks, the fruit bouncing in; pink NEXT? banner | NEXT? (pink) | pop, whoosh |
 | 21 | 1351–1412 | (no voice) | desk | medium, push-in 1.12→1.18 | Back in the desk room: host sips coffee, steam rising |  | sip |

diff --git a/shorts/azure/PLAN.md b/shorts/azure/PLAN.md
@@ -49,7 +49,7 @@ Sheet: `review/bg_sheet.png`. Contact sheet: `review/contact_sheet.jpg`.
 | 2 | 52–123 | take a bite of a weird scaly blue fruit. | desk | close-up, push-in 1.40→1.50 | The bite (desk close-up): dip, bite, disgusted face; blue scales ripple up the host's arm; blue YOUR FRUIT banner | YOUR FRUIT (blue) | crunch, shimmer, yuck |
 | 3 | 124–203 | Don't panic, that's just a Devil Fruit. | s3:az_dojo | wide, push-in 1.06→1.12 | Don't panic (Wano dojo): the host calms down and holds up the bitten fruit |  | shimmer, whoosh |
 | 4 | 204–266 | Out of every fruit in the sea, you got the | rays:navy | wide, push-in 1.00→1.10, roll 2° | Out of every fruit: navy rays, pink ゴ marks, spinning globe, dark unnamed fruit silhouettes |  | rumble, whoosh |
-| 5 | 267–392 | Fish-Fish Fruit, Model: Azure Dragon, a Mythical Zoan | s3:az_thunder | medium, push-in 1.05→1.16 | Fruit reveal (stormy thunder sky): the fruit spins in a halo; blue FISH-FISH FRUIT: AZURE DRAGON banner | FISH-FISH FRUIT: AZURE DRAGON (blue) | ding, shimmer, whoosh |
+| 5 | 267–398 | Fish-Fish Fruit, Model: Azure Dragon, a Mythical Zoan that | s3:az_thunder | medium, push-in 1.05→1.16 | Fruit reveal (stormy thunder sky): the fruit spins in a halo; blue FISH-FISH FRUIT: AZURE DRAGON banner | FISH-FISH FRUIT: AZURE DRAGON (blue) | ding, shimmer, whoosh |
 | 6 | 399–434 | turns you into a giant blue | s3:az_dock | wide, push-in 1.00→1.06 | Mythical Zoan (harbour dock): a long blue dragon uncoils out of the host and rises over the water |  | rumble, whoosh |
 | 7 | 435–478 | dragon. | s3:az_stage | wide, push-in 1.00→1.08 | Techniques stage (spotlit stage): DRAGON, FIRE, WIND, HYBRID pop onto pedestals, the bar fills, LEVEL UP |  | levelup, pop, whoosh |
 | 8 | 479–539 | First, you become a huge blue dragon and | s3:az_skies | wide, push-in 1.00→1.05 | Power 1 (open skies): Kaido roars and turns into a huge blue dragon; blue AZURE DRAGON banner | AZURE DRAGON (blue) | boom, rumble |
